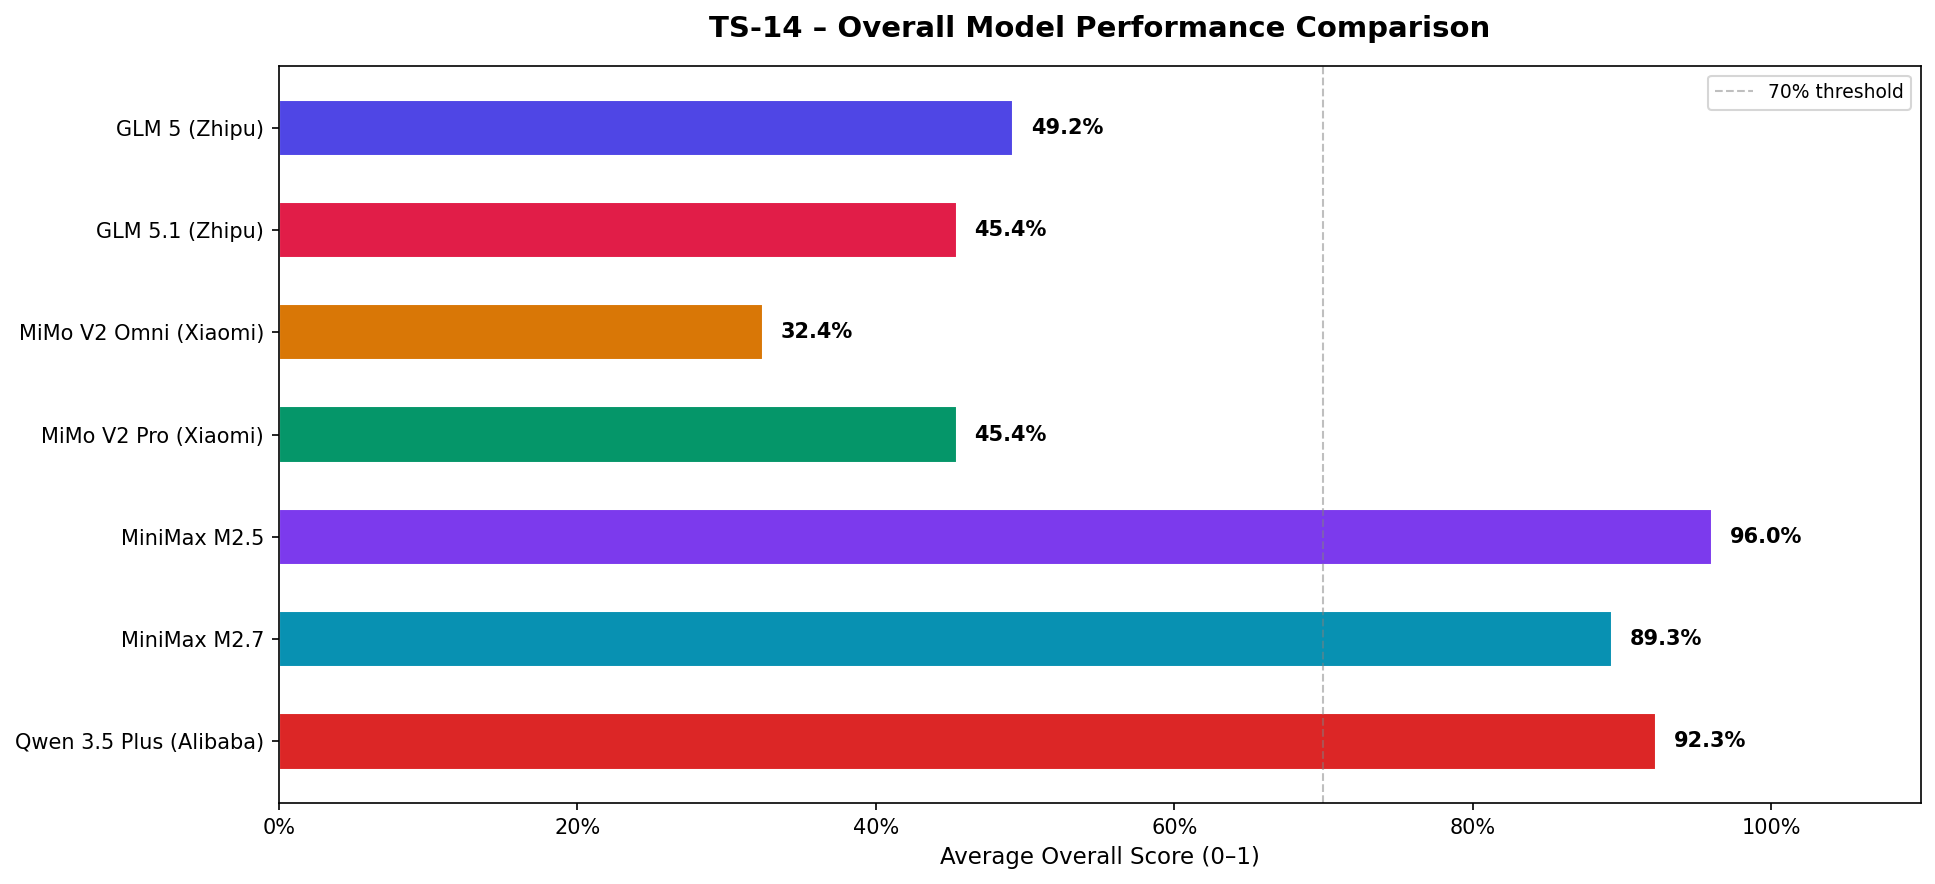
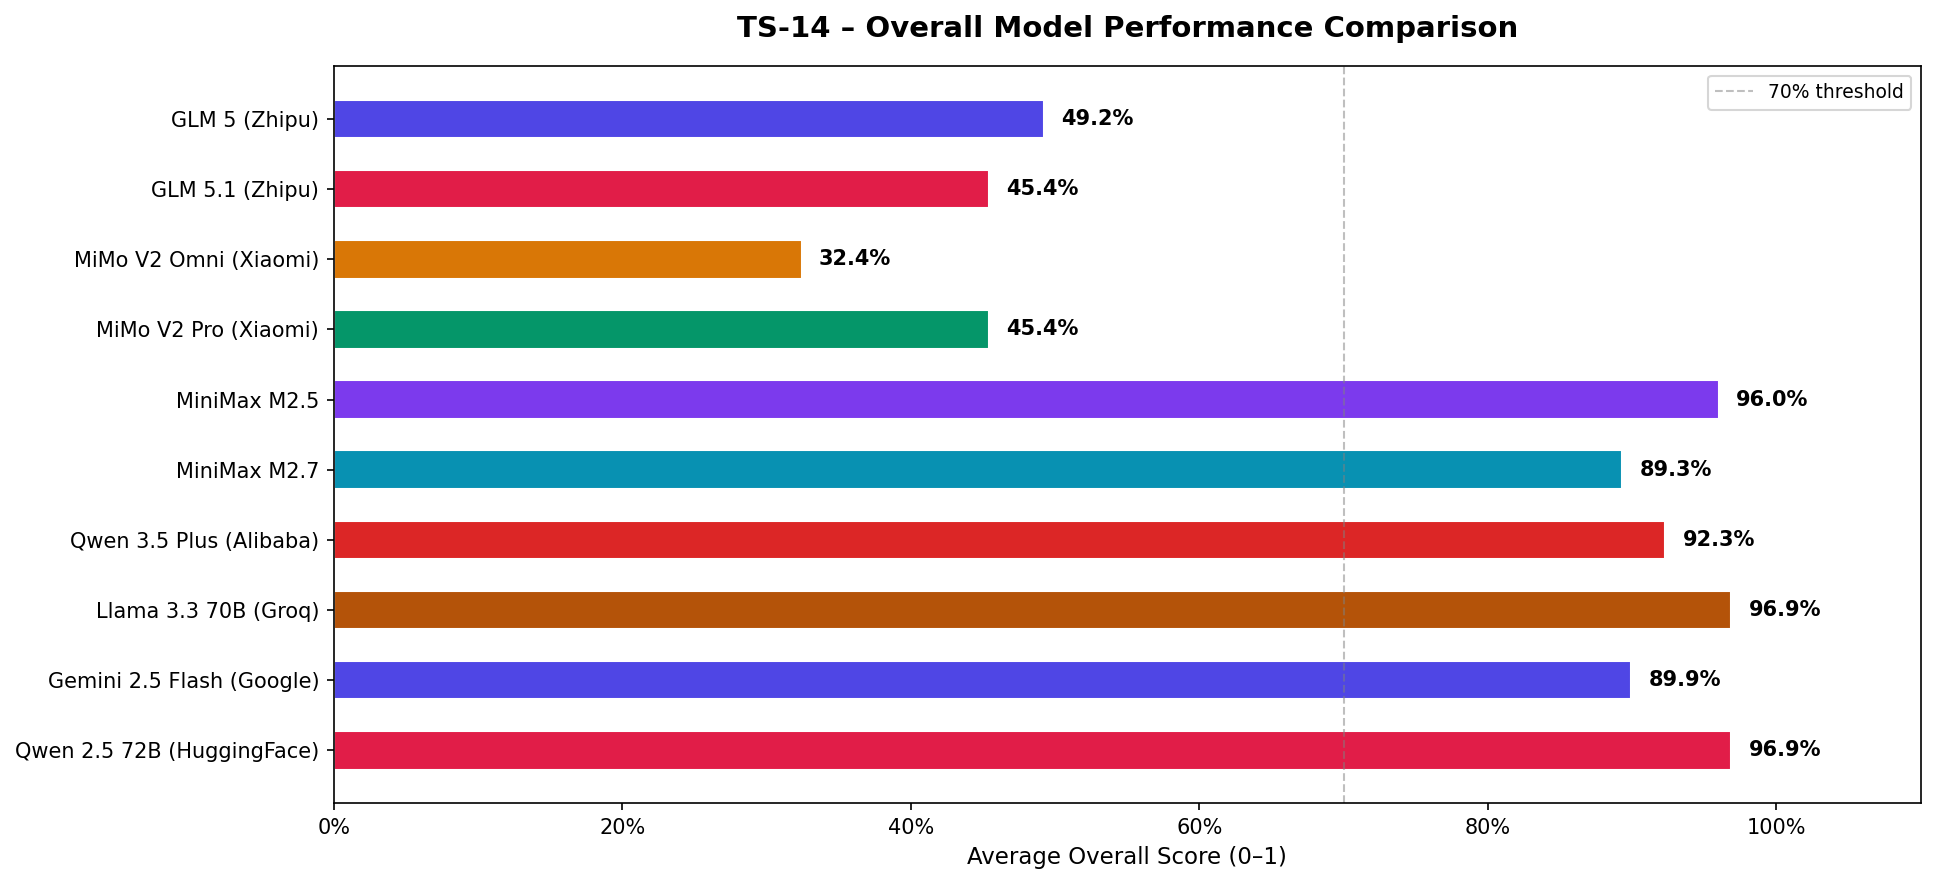
10 models abblation study

diff --git a/genai/comparative_analysis/run_additional_three_models.py b/genai/comparative_analysis/run_additional_three_models.py
@@ -1,0 +1,39 @@
+"""
+Run only the 3 additional models, merge with existing latest results,
+and regenerate the aggregated report.
+
+Usage:
+    cd genai
+    python -m comparative_analysis.run_additional_three_models
+"""
+
+import os
+
+from comparative_analysis.run_ablation import run_ablation
+from comparative_analysis.generate_report import main as generate_report
+
+
+THREE_MODEL_KEYS = "groq_llama70b,gemini_2_5_flash,hf_qwen_72b"
+
+
+def main():
+    # Restrict this run to the 3 newly added models only.
+    os.environ["RUN_MODEL_KEYS"] = THREE_MODEL_KEYS
+    # Merge these model outputs into existing ablation_results_latest.json.
+    os.environ["MERGE_WITH_LATEST"] = "1"
+
+    print("=" * 72)
+    print("  Running additional 3 models only")
+    print(f"  Model keys: {THREE_MODEL_KEYS}")
+    print("  Merge mode: ON (MERGE_WITH_LATEST=1)")
+    print("=" * 72)
+
+    run_ablation()
+
+    print("\nRegenerating aggregated report from merged latest results...\n")
+    generate_report()
+
+
+if __name__ == "__main__":
+    main()
+

diff --git a/genai/comparative_analysis/ABLATION_REPORT.md b/genai/comparative_analysis/ABLATION_REPORT.md
@@ -18,6 +18,9 @@
 | 5 | **MiniMax M2.5** | openrouter | `minimax-m2.5` |
 | 6 | **MiniMax M2.7** | openrouter | `minimax-m2.7` |
 | 7 | **Qwen 3.5 Plus (Alibaba)** | openrouter | `qwen3.5-plus` |
+| 8 | **Llama 3.3 70B (Groq)** | groq | `llama-3.3-70b-versatile` |
+| 9 | **Gemini 2.5 Flash (Google)** | google | `models/gemini-2.5-flash` |
+| 10 | **Qwen 2.5 72B (HuggingFace)** | huggingface | `Qwen/Qwen2.5-72B-Instruct` |
 
 All models accessed via OpenCode / OpenRouter (OpenAI-compatible API).
 
@@ -44,7 +47,7 @@ Each model response is scored on **five weighted metrics**:
 | Packaging / Seal Damage (Sneha Patel) | Packaging | Medium | Email |
 | Trade / Bulk Pricing Inquiry (HealthPlus Pharmacy) | Trade | Low | Email |
 
-Each scenario is tested on **3 tasks** (classify / resolve / ticket) → **12 API calls per model**, **84 total API calls**.
+Each scenario is tested on **3 tasks** (classify / resolve / ticket) → **12 API calls per model**, **120 total API calls**.
 
 ---
 
@@ -52,13 +55,16 @@ Each scenario is tested on **3 tasks** (classify / resolve / ticket) → **12 AP
 
 | Rank | Model | Overall | Latency | Category Acc. | Priority Acc. | Resolution | Format |
 |------|-------|:-------:|:-------:|:-------------:|:-------------:|:----------:|:------:|
-| 🥇 | **MiniMax M2.5** | 96.0% | 13.5s | 100% | 88% | 100% | 100% |
-| 🥈 | **Qwen 3.5 Plus (Alibaba)** | 92.3% | 51.7s | 92% | 79% | 100% | 100% |
-| 🥉 | **MiniMax M2.7** | 89.3% | 15.1s | 83% | 88% | 93% | 92% |
-| 4. | **GLM 5 (Zhipu)** | 49.2% | 19.1s | 58% | 62% | 33% | 33% |
-| 5. | **GLM 5.1 (Zhipu)** | 45.4% | 14.9s | 58% | 58% | 33% | 25% |
-| 6. | **MiMo V2 Pro (Xiaomi)** | 45.4% | 15.0s | 58% | 58% | 33% | 25% |
-| 7. | **MiMo V2 Omni (Xiaomi)** | 32.4% | 13.0s | 33% | 38% | 35% | 8% |
+| 🥇 | **Llama 3.3 70B (Groq)** | 96.9% | 1.4s | 100% | 88% | 100% | 100% |
+| 🥈 | **Qwen 2.5 72B (HuggingFace)** | 96.9% | 11.6s | 100% | 88% | 100% | 100% |
+| 🥉 | **MiniMax M2.5** | 96.0% | 13.5s | 100% | 88% | 100% | 100% |
+| 4. | **Qwen 3.5 Plus (Alibaba)** | 92.3% | 51.7s | 92% | 79% | 100% | 100% |
+| 5. | **Gemini 2.5 Flash (Google)** | 89.9% | 7.4s | 91% | 82% | 92% | 91% |
+| 6. | **MiniMax M2.7** | 89.3% | 15.1s | 83% | 88% | 93% | 92% |
+| 7. | **GLM 5 (Zhipu)** | 49.2% | 19.1s | 58% | 62% | 33% | 33% |
+| 8. | **GLM 5.1 (Zhipu)** | 45.4% | 14.9s | 58% | 58% | 33% | 25% |
+| 9. | **MiMo V2 Pro (Xiaomi)** | 45.4% | 15.0s | 58% | 58% | 33% | 25% |
+| 10. | **MiMo V2 Omni (Xiaomi)** | 32.4% | 13.0s | 33% | 38% | 35% | 8% |
 
 ---
 
@@ -104,8 +110,11 @@ Each scenario is tested on **3 tasks** (classify / resolve / ticket) → **12 AP
 
 | Model | Score | Latency |
 |-------|:-----:|:-------:|
+| Llama 3.3 70B (Groq) | 100.0% | 1.2s |
+| Qwen 2.5 72B (HuggingFace) | 100.0% | 5.8s |
 | MiniMax M2.5 | 97.4% | 7.4s |
 | Qwen 3.5 Plus (Alibaba) | 89.4% | 41.7s |
+| Gemini 2.5 Flash (Google) | 92.5% | 5.0s |
 | MiniMax M2.7 | 89.4% | 12.0s |
 | GLM 5 (Zhipu) | 89.4% | 22.3s |
 | GLM 5.1 (Zhipu) | 81.2% | 14.2s |
@@ -116,8 +125,11 @@ Each scenario is tested on **3 tasks** (classify / resolve / ticket) → **12 AP
 
 | Model | Score | Latency |
 |-------|:-----:|:-------:|
+| Llama 3.3 70B (Groq) | 100.0% | 1.6s |
+| Qwen 2.5 72B (HuggingFace) | 100.0% | 19.2s |
 | MiniMax M2.5 | 100.0% | 14.7s |
 | Qwen 3.5 Plus (Alibaba) | 100.0% | 67.3s |
+| Gemini 2.5 Flash (Google) | 89.7% | 10.4s |
 | MiniMax M2.7 | 92.3% | 16.9s |
 | GLM 5 (Zhipu) | 55.0% | 19.8s |
 | GLM 5.1 (Zhipu) | 55.0% | 16.0s |
@@ -128,8 +140,11 @@ Each scenario is tested on **3 tasks** (classify / resolve / ticket) → **12 AP
 
 | Model | Score | Latency |
 |-------|:-----:|:-------:|
+| Llama 3.3 70B (Groq) | 90.6% | 1.6s |
+| Qwen 2.5 72B (HuggingFace) | 90.6% | 9.9s |
 | MiniMax M2.5 | 90.6% | 18.4s |
 | Qwen 3.5 Plus (Alibaba) | 87.5% | 45.9s |
+| Gemini 2.5 Flash (Google) | 87.5% | 7.7s |
 | MiniMax M2.7 | 86.2% | 16.5s |
 | GLM 5 (Zhipu) | 3.2% | 15.3s |
 | GLM 5.1 (Zhipu) | 0.0% | 14.6s |
@@ -142,8 +157,11 @@ Each scenario is tested on **3 tasks** (classify / resolve / ticket) → **12 AP
 
 | Model | Category | Priority | Resolution | Format | Quality |
 |-------|:--------:|:--------:|:----------:|:------:|:-------:|
+| Llama 3.3 70B (Groq) | 100% | 88% | 100% | 100% | 100% |
+| Qwen 2.5 72B (HuggingFace) | 100% | 88% | 100% | 100% | 100% |
 | MiniMax M2.5 | 100% | 88% | 100% | 100% | 91% |
 | Qwen 3.5 Plus (Alibaba) | 92% | 79% | 100% | 100% | 100% |
+| Gemini 2.5 Flash (Google) | 91% | 82% | 92% | 91% | 100% |
 | MiniMax M2.7 | 83% | 88% | 93% | 92% | 100% |
 | GLM 5 (Zhipu) | 58% | 62% | 33% | 33% | 44% |
 | GLM 5.1 (Zhipu) | 58% | 58% | 33% | 25% | 25% |
@@ -154,11 +172,11 @@ Each scenario is tested on **3 tasks** (classify / resolve / ticket) → **12 AP
 
 ## Recommendation
 
-Based on this ablation study across **84 API calls**, **MiniMax M2.5** achieves the highest overall score of **96.0%**.
+Based on this ablation study across **120 API calls**, **Llama 3.3 70B (Groq)** achieves the highest overall score of **96.9%**.
 
-The runner-up is **Qwen 3.5 Plus (Alibaba)** at **92.3%**.
+The runner-up is **Qwen 2.5 72B (HuggingFace)** at **96.9%**.
 
-For latency-critical deployments (real-time complaint intake), **MiMo V2 Omni (Xiaomi)** is the fastest at **13.0s** average.
+For latency-critical deployments (real-time complaint intake), **Llama 3.3 70B (Groq)** is the fastest at **1.4s** average.
 
 ### Selection Criteria for TS-14 Production
 
